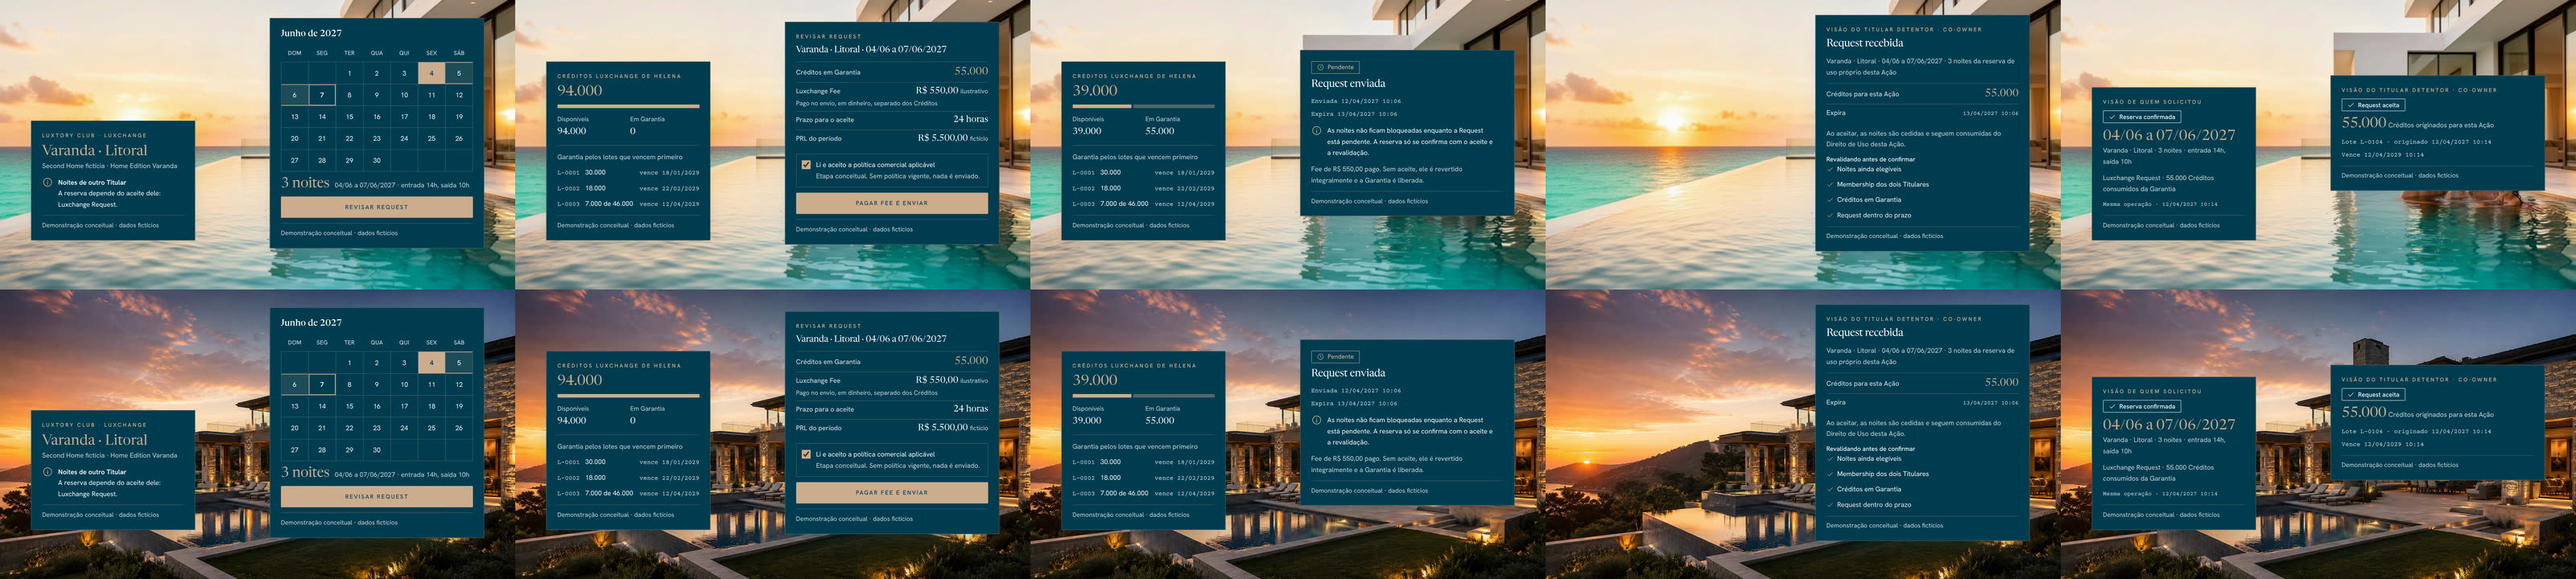
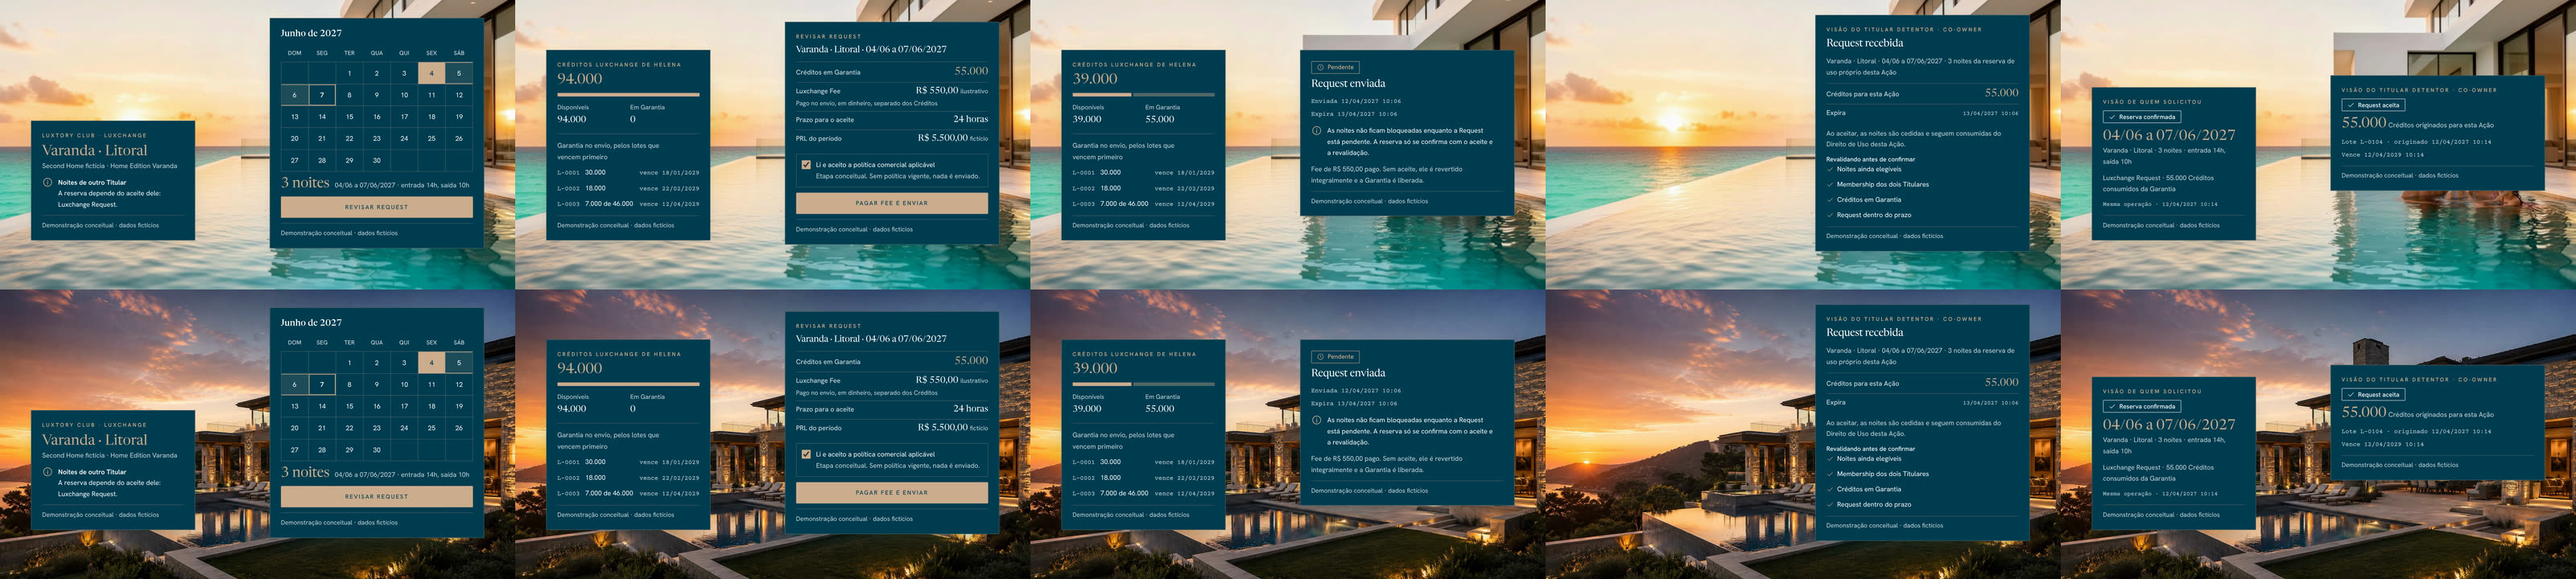
docs(prototipo): evidências da Etapa A após as correções, com comparativo antes/depois da confirmação
- transicao-16x9.jpg e transicao-9x16.jpg: confirmação antes (textos misturados em 20,13–20,27 s) e depois
  (cartão do detentor sai, Request Aceita + Reserva Confirmada entram juntas), extraídas dos MP4 codificados.
- Folhas de contato e zoom de borda regenerados; README com os números finais (varredura 0 quadros com
  sobreposição, ProRes 4444 de 4 s cobrindo aceite → confirmação, PSNR do alfa ≥ 78 dB, cores BT.709).

Claude-Session: https://claude.ai/code/session_01PrCkMhNgFvoWLgYV3q4Jsr

diff --git a/prototypes/luxtory-club-video/README.md b/prototypes/luxtory-club-video/README.md
@@ -126,19 +126,22 @@ textos diferentes; `check.mjs` varre os 750 quadros de cada formato.
 
 ## Evidências da Etapa A
 
-Medidas pelos scripts acima (`out/etapa-a/check.json` e `validation.json`; folhas de contato e zoom de borda em
-`evidencias/etapa-a/`).
+Medidas pelos scripts acima (`out/etapa-a/check.json` e `validation.json`). Em `evidencias/etapa-a/`: folhas de
+contato, zoom de borda do alfa e `transicao-*.jpg` — a confirmação antes (linha de cima: 20,00 · 20,13 · 20,20 · 20,27 ·
+20,40 s, textos misturados) e depois da correção (linha de baixo: 20,00 · 20,33 · 20,53 · 20,67 · 21,00 s), extraídas
+dos MP4 codificados sobre a placa escura.
 
 | Verificação | 16:9 | 9:16 |
 |---|---|---|
 | Testes (`prototype.test.mjs`) | 15/15 | — |
 | `check.mjs`: 7 instantes, valores e estados, selo, sobreposição, axe | conforme, axe 0 | conforme, axe 0 |
+| Varredura dos 750 quadros: cartões que se cruzam visíveis juntos | 0 (antes da correção: 7) | 0 (antes: 16) |
 | Texto mínimo no arquivo final | 20 px (1080p) | 32 px (1920 de altura) |
 | Determinismo (mesmo quadro, dois caminhos) | bytes idênticos | bytes idênticos |
-| Prévia H.264 | 1920×1080 · 30 fps · 750 quadros · 25,0 s · BT.709 · 1,6 MB | 1080×1920 · idem · 2,1 MB |
-| ProRes 4444 (R4, 3 s) | 1920×1080 · `yuva444p12le` · 90 quadros · 39 MB | 1080×1920 · 54 MB |
-| Fidelidade do alfa decodificado (PSNR R/G/B/A) | 50 / 55 / 52 / 76 dB | 48 / 53 / 50 / 76 dB |
-| Deep `#003D52` (0,61,82) no cartão | ProRes (0,61,81) · MP4 (2,61,84) | ProRes (0,60,81) · MP4 (0,58,79) |
+| Prévia H.264 | 1920×1080 · 30 fps · 750 quadros · 25,0 s · BT.709 · 1,5 MB | 1080×1920 · idem · 1,8 MB |
+| ProRes 4444 (aceite → confirmação, 18,3–22,3 s) | 1920×1080 · `yuva444p12le` · 120 quadros · 4,0 s · 45 MB | 1080×1920 · 64 MB |
+| Fidelidade do alfa num quadro de transição (PSNR R/G/B/A) | 51 / 56 / 54 / 79 dB | 49 / 54 / 51 / 78 dB |
+| Deep `#003D52` (0,61,82) no cartão | ProRes (0,61,81) · MP4 (0,60,83) | ProRes (0,60,81) · MP4 (0,58,79) |
 | Fora dos cartões (alfa) | 0 | 0 |
 | Placa com push-in (salto máx. / mediana, luma) | clara 0,096 / 0,039 · escura 0,176 / 0,157 | clara 0,062 / 0,019 · escura 0,139 / 0,120 |
 | Transição da interface (entrada do cartão) | 13 quadros, nenhum repetido | 13 quadros, nenhum repetido |
@@ -146,7 +149,7 @@ Medidas pelos scripts acima (`out/etapa-a/check.json` e `validation.json`; folha
 **Captura automatizada × tempo real, ambas em 1920×1080 pixels reais.** A automatizada é exata por construção
 (750/750 quadros a 30 fps, `seek(t)`), tem alfa e repete os mesmos bytes; ~100 ms por quadro (25 s em ~75 s). A
 gravação em tempo real (screencast do Chromium, equivalente a gravar a tela) não tem transparência, entrega quadros
-irregulares (8 atrasados durante o movimento em 12 s, intervalo máximo de 225 ms) e não se repete igual. Para
+irregulares (8 atrasados durante o movimento em 12 s, intervalo máximo de 245 ms) e não se repete igual. Para
 composição sobre vídeo, a automatizada é a escolha; a prévia ao vivo continua útil para revisão e gravação informal.
 O `zoompan` do ffmpeg foi descartado para a placa: anda em pixels inteiros (saltos de até 2,69 de luma).
 
